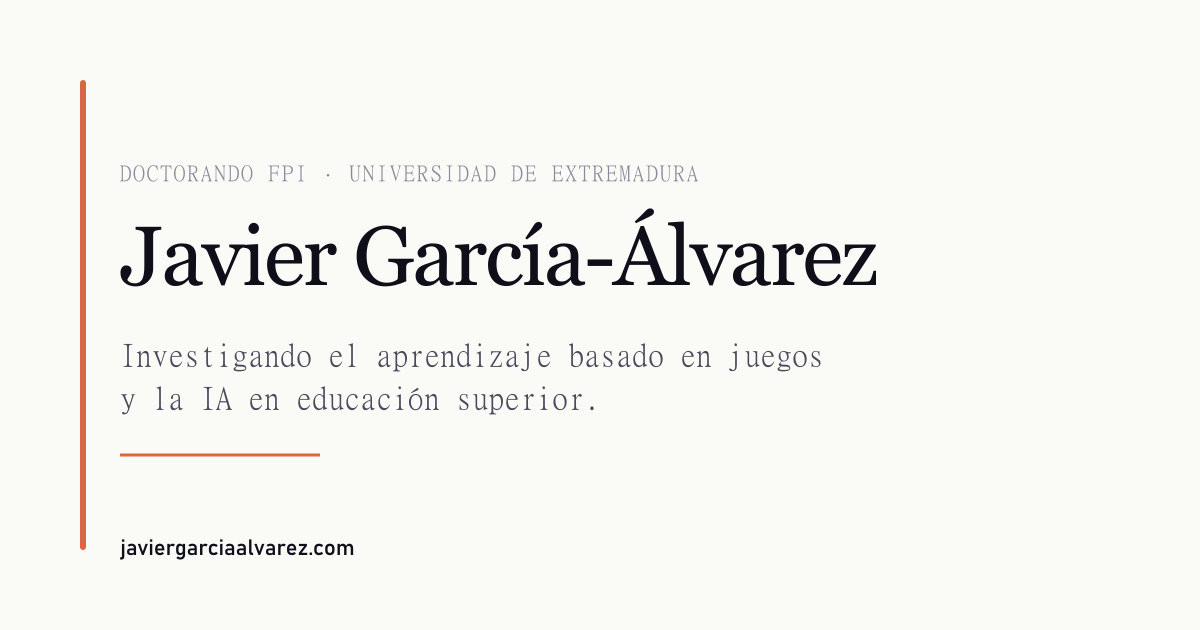
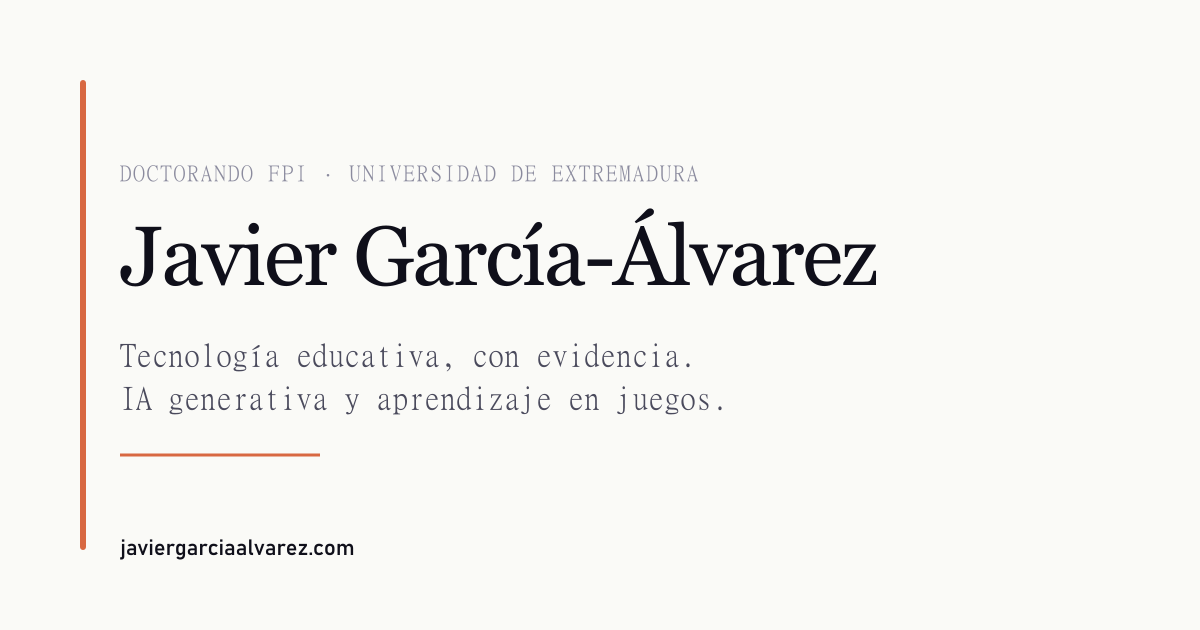
Bloque 5: feed RSS e imágenes de compartido por sección
5.4 Feed de Astillas con @astrojs/rss (4.0.19, 29,6 KB). De sus tres
    dependencias solo entra fast-xml-parser: piccolore y zod ya estaban
    en el árbol. Enlace alternate en el head de todas las páginas y
    enlace visible en el footer, que con Astillas fuera del nav es hoy
    su única entrada.

5.9 Cinco imágenes de Open Graph, una por sección, generadas por
    scripts/generar-og.mjs. El SVG es la fuente y el PNG lo que se
    publica, porque ninguna red social acepta SVG en og:image.

    Se rasteriza con sharp, que ya venía con Astro: cero dependencias
    nuevas. Instrument Serif, Inter Tight y JetBrains Mono no están en
    el sistema, así que caen a sus sustitutos; el resultado es idéntico
    al og-image.png anterior, señal de que se generó igual.

    La imagen genérica se regenera además porque su texto se había
    quedado obsoleto: seguía diciendo "Investigando el aprendizaje
    basado en juegos y la IA en educación superior", que es el
    posicionamiento que el Bloque 2 sustituyó.

BaseLayout gana un prop ogImage, con la genérica por defecto. Home,
contacto y 404 la mantienen; el resto de rutas llevan la suya.

Changed region(s): [[0.0925, 0.5429, 0.5858, 0.6635], [0.6167, 0.5429, 0.6783, 0.6032]]

diff --git a/src/pages/rss.xml.ts b/src/pages/rss.xml.ts
@@ -1,0 +1,34 @@
+import rss from '@astrojs/rss';
+import type { APIRoute } from 'astro';
+import { getCollection } from 'astro:content';
+
+/**
+ * Feed de Astillas (tarea 5.4), con la integración oficial de Astro.
+ *
+ * Astillas está fuera del nav (tarea 3.1) mientras no haya cadencia, así que
+ * el feed y el enlace del footer son hoy las dos vías de suscripción.
+ */
+
+const FALLBACK = 'https://javiergarciaalvarez.com';
+
+export const GET: APIRoute = async ({ site }) => {
+  const base = site ?? new URL(FALLBACK);
+
+  const astillas = await getCollection('astillas', ({ data }) => !data.draft);
+
+  return rss({
+    title: 'Astillas · Javier García-Álvarez',
+    description: 'Notas sobre investigación, educación y lo que me incomoda.',
+    site: base,
+    // Más reciente primero: un lector de feeds no reordena por su cuenta.
+    items: astillas
+      .sort((a, b) => b.data.publishedAt.getTime() - a.data.publishedAt.getTime())
+      .map((astilla) => ({
+        title: astilla.data.title,
+        description: astilla.data.description,
+        pubDate: astilla.data.publishedAt,
+        link: `/astillas/${astilla.id}/`,
+      })),
+    customData: '<language>es-es</language>',
+  });
+};
